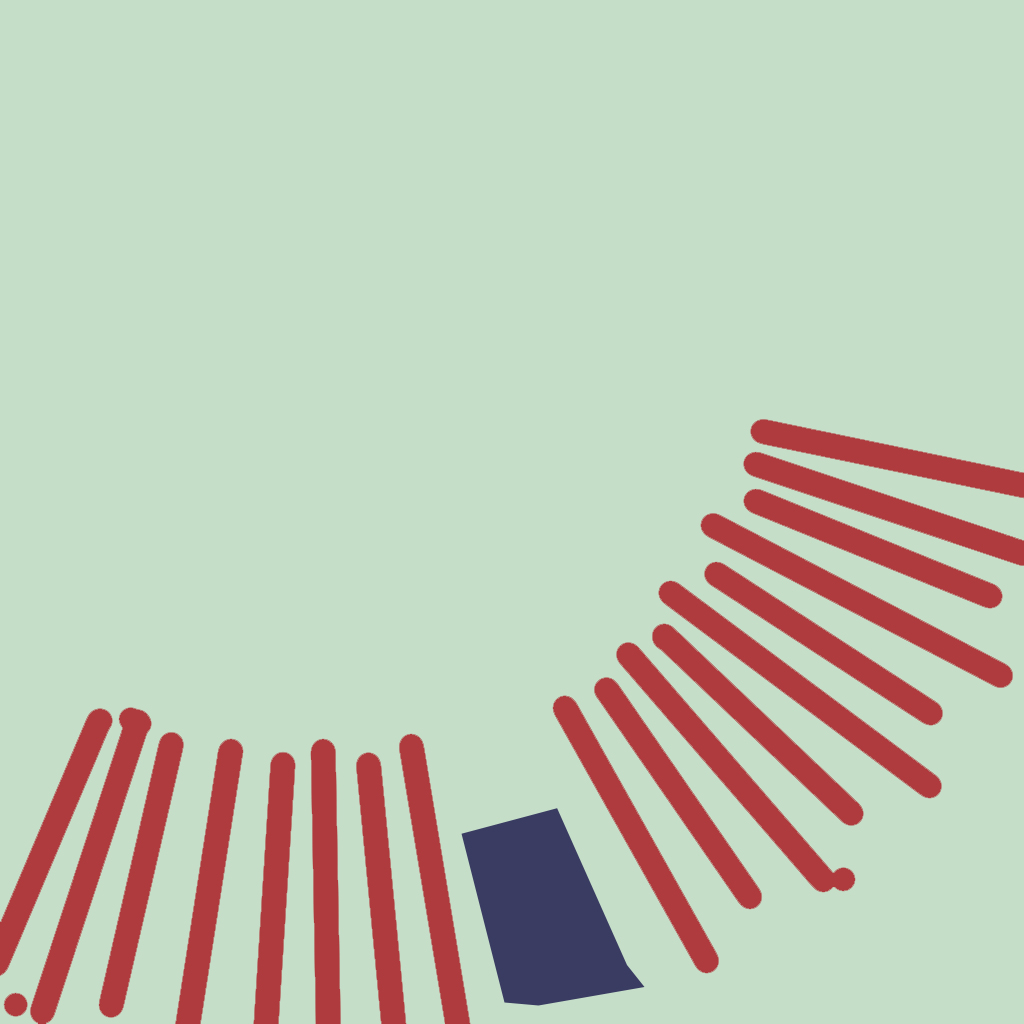
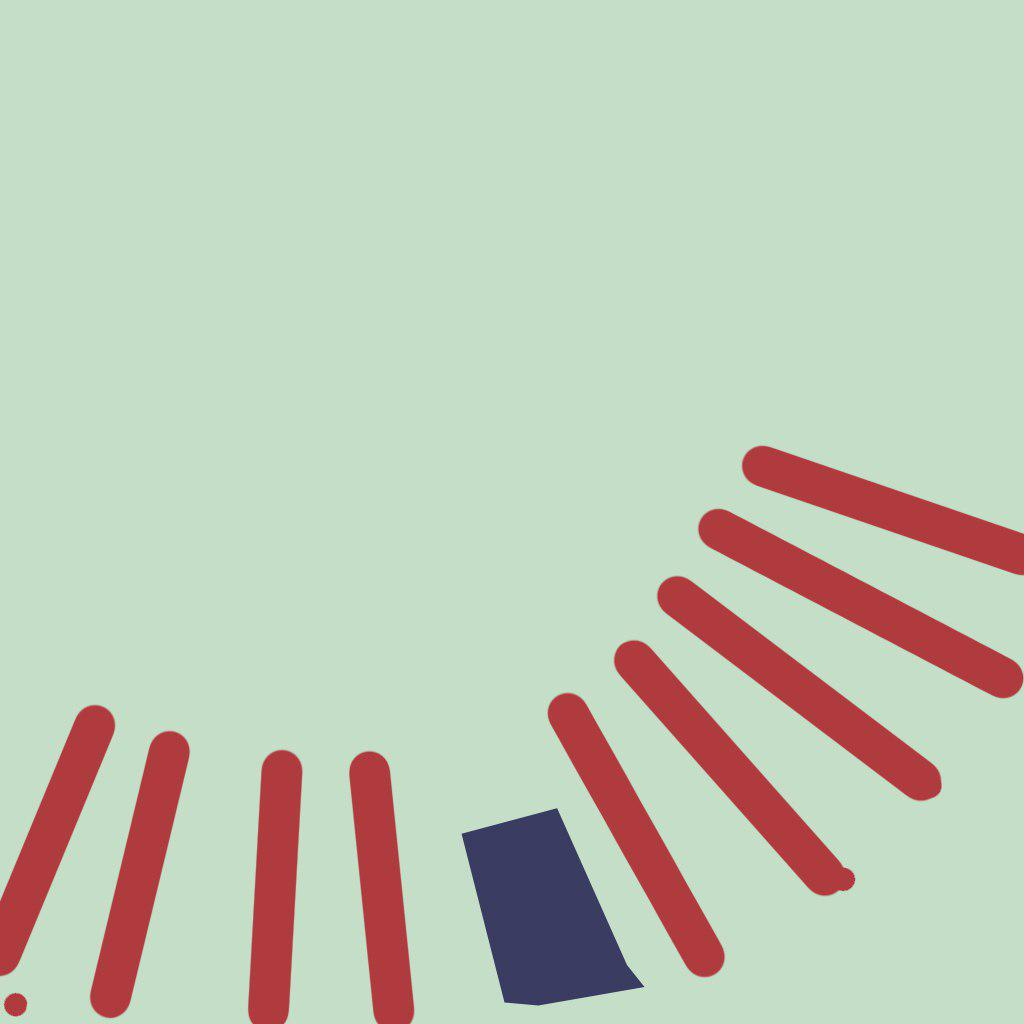
исправлены некоторые текстуры, поправлен поворот куста и размер полей

Changed region(s): [[0.5312, 0.4062, 1.0, 0.9688], [0.0, 0.6875, 0.4688, 1.0]]

diff --git a/Assets/Scripts/CameraFollow.cs b/Assets/Scripts/CameraFollow.cs
@@ -102,10 +102,10 @@ public class CameraFollow : MonoBehaviour
         float distance = -CameraAlign.transform.position.z ;
         float MapAspect = (float)(MapData.RotateOn%2==0?MapData.MapWidth:MapData.MapHeight)/(MapData.RotateOn%2==0?MapData.MapHeight:MapData.MapWidth);
         // Debug.Log(Camera.main.aspect+ "  "+ MapAspect);
-        float height = size*(1/cam.aspect+0.5f);
+        float height = size*(1/cam.aspect)+4f;
             if (cam.aspect>MapAspect){
             size = MapData.RotateOn%2==1?MapData.MapWidth:MapData.MapHeight;
-                height=size*1.2f;
+                height=size +4;
                             }
         cam.fieldOfView = Mathf.Lerp(cam.fieldOfView,2*Mathf.Atan(height/2f/distance)/Mathf.PI*180*factor, Time.deltaTime * zoomSpeed); 
         

diff --git a/Assets/Scripts/BushMaker.cs b/Assets/Scripts/BushMaker.cs
@@ -14,9 +14,10 @@ public class BushMaker : MonoBehaviour
        float m = width; // толщина забора
        float c = factor; // скос
   var s = new SimpleMeshBuilder();
-    float h = MapData.RotateOn%2 == 0 ? Data.MapHeight:Data.MapWidth ; h+=0.2f;
-    float w = MapData.RotateOn%2 == 1 ? Data.MapHeight:Data.MapWidth ; w+=0.2f;
-  
+    float h =  Data.MapHeight+0.2f;
+    float w =Data.MapWidth+0.2f;
+//   transform.eulerAngles = new Vector3(0,0,MapData.RotateOn%2 == 0?0:90);
+  Debug.Log(MapData.RotateOn);
   // внутрення стенка
      s.AddRectSurface(  new Vector3(-w/2f, -h/2f, 0),new Vector3(-w/2f, -h/2f,-t), new Vector3(-w/2f, 0, -t*c), new Vector3(-w/2f,0, 0));
 
